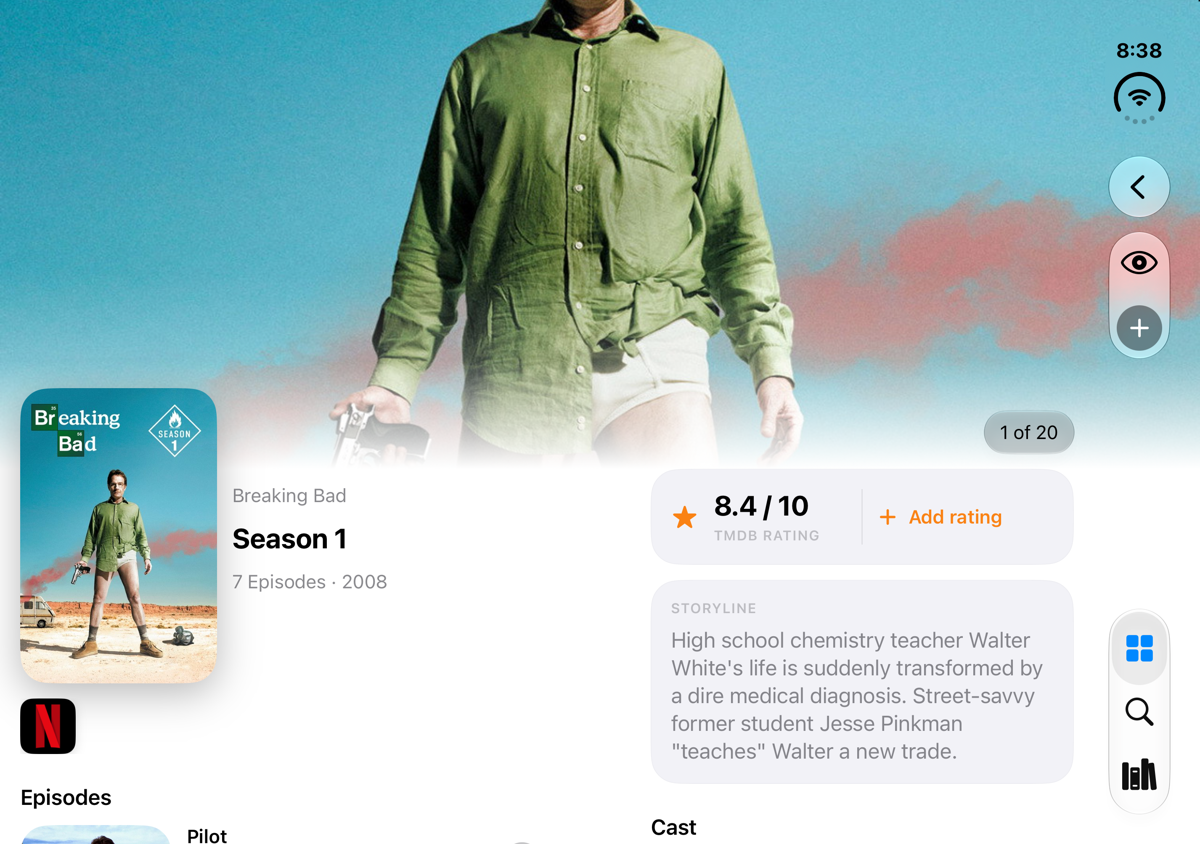
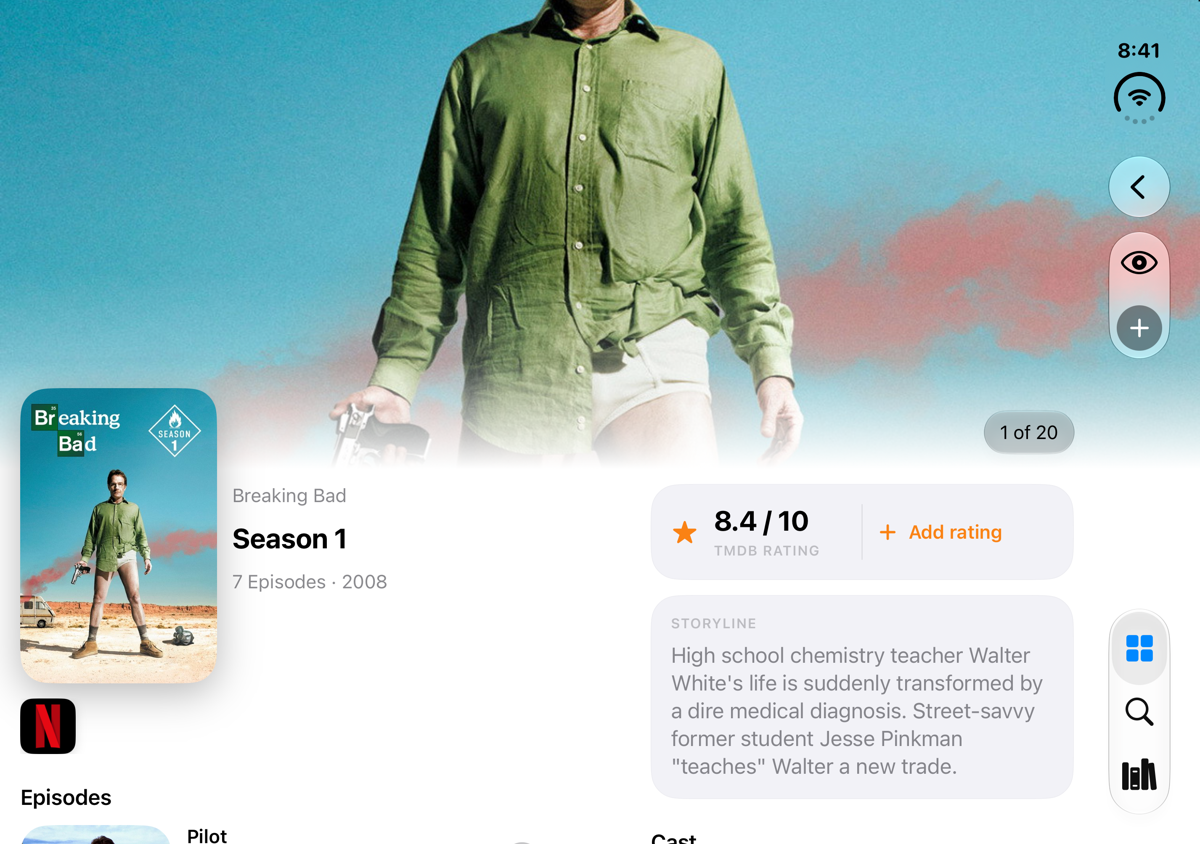
Inset the right pane in hinge mode by the hero's title offset, so its first card lines up with the title on the left.

diff --git a/SilverScreen/Screens/MovieDetail/MovieDetailHero.swift b/SilverScreen/Screens/MovieDetail/MovieDetailHero.swift
@@ -27,6 +27,25 @@ enum DetailHeroPart: Sendable {
     case all
     case backdrop
     case identity
+
+    /// How far below the top of the `.identity` part its title column starts. A hinge
+    /// page pads its trailing pane by this, so that pane's first item lines up with
+    /// the title. `DetailHero` uses the same values to place the title.
+    static func titleTopOffset(posterPath: String?, hasImages: Bool) -> CGFloat {
+        if DetailHeroLayout.hasPoster(posterPath) {
+            return (hasImages ? DesignSpacing.sm : 0) + DesignSpacing.xs
+        }
+        return hasImages ? DesignSpacing.md : 0
+    }
+}
+
+/// Rules shared by `DetailHero` and `DetailHeroPart`.
+enum DetailHeroLayout {
+    /// A blank or whitespace path means there is no poster.
+    static func hasPoster(_ posterPath: String?) -> Bool {
+        guard let posterPath else { return false }
+        return !posterPath.trimmingCharacters(in: .whitespacesAndNewlines).isEmpty
+    }
 }
 
 /// Full-width backdrop stage. A poster overlaps the bottom when `posterPath` is set.
@@ -280,8 +299,7 @@ struct DetailHero<Metadata: View>: View {
     }
 
     private var hasPoster: Bool {
-        guard let posterPath else { return false }
-        return !posterPath.trimmingCharacters(in: .whitespacesAndNewlines).isEmpty
+        DetailHeroLayout.hasPoster(posterPath)
     }
 
     private func reconcileSelection() {

diff --git a/SilverScreen/Design/DetailColumns.swift b/SilverScreen/Design/DetailColumns.swift
@@ -21,6 +21,9 @@ struct DetailColumns<Primary: View, Secondary: View>: View {
     var spacing: CGFloat = DesignSpacing.xl
     /// Between the sections inside each group.
     var itemSpacing: CGFloat = DesignSpacing.xl
+    /// Space above the side column's first section, so it can line up with something
+    /// in the main column (the title, on a hinge page). Ignored when the columns stack.
+    var secondaryTopInset: CGFloat = 0
     @ViewBuilder let primary: Primary
     @ViewBuilder let secondary: Secondary
 
@@ -46,6 +49,7 @@ struct DetailColumns<Primary: View, Secondary: View>: View {
                 VStack(alignment: .leading, spacing: itemSpacing) {
                     secondary
                 }
+                .padding(.top, isSideBySide ? secondaryTopInset : 0)
                 .frame(maxWidth: .infinity, alignment: .leading)
             }
         }

diff --git a/SilverScreenTests/Screens/AdaptiveLayoutTests.swift b/SilverScreenTests/Screens/AdaptiveLayoutTests.swift
@@ -243,6 +243,20 @@ final class AdaptiveLayoutTests: XCTestCase {
         XCTAssertEqual(panes.trailing, [3, 4, 7])
     }
 
+    // MARK: - Hinge page title alignment
+
+    func test_titleTopOffset_posterOverBackdrop_matchesTitleInset() {
+        XCTAssertEqual(DetailHeroPart.titleTopOffset(posterPath: "/p.jpg", hasImages: true), 12)
+    }
+
+    func test_titleTopOffset_noPosterWithBackdrop_matchesTitleInset() {
+        XCTAssertEqual(DetailHeroPart.titleTopOffset(posterPath: nil, hasImages: true), 12)
+    }
+
+    func test_titleTopOffset_blankPosterPath_countsAsNoPoster() {
+        XCTAssertEqual(DetailHeroPart.titleTopOffset(posterPath: "  ", hasImages: false), 0)
+    }
+
     // MARK: - Grid rows
 
     func test_rows_oneColumn_yieldsOneRowPerItem() {

diff --git a/SilverScreen/Screens/TV/TVSeriesView.swift b/SilverScreen/Screens/TV/TVSeriesView.swift
@@ -254,7 +254,13 @@ struct TVSeriesView: View {
             twoColumns: twoColumns,
             contentWidth: contentWidth,
             showsSecondary: sectionsInPanes || !viewModel.awardRows.isEmpty,
-            itemSpacing: DesignSpacing.md
+            itemSpacing: DesignSpacing.md,
+            secondaryTopInset: sectionsInPanes
+                ? DetailHeroPart.titleTopOffset(
+                    posterPath: content.detail.posterPath,
+                    hasImages: !content.detail.images.isEmpty
+                )
+                : 0
         ) {
             if sectionsInPanes {
                 seriesHero(content, twoColumns: true, part: .identity)

diff --git a/SilverScreen/Screens/TV/TVSeasonView.swift b/SilverScreen/Screens/TV/TVSeasonView.swift
@@ -375,7 +375,10 @@ struct TVSeasonView: View {
             twoColumns: twoColumns,
             contentWidth: contentWidth,
             showsSecondary: sectionsInPanes || !viewModel.awardRows.isEmpty,
-            itemSpacing: sectionsInPanes ? DesignSpacing.xl : DesignSpacing.md
+            itemSpacing: sectionsInPanes ? DesignSpacing.xl : DesignSpacing.md,
+            secondaryTopInset: sectionsInPanes
+                ? DetailHeroPart.titleTopOffset(posterPath: content.posterPath, hasImages: !content.images.isEmpty)
+                : 0
         ) {
             if sectionsInPanes {
                 seasonHero(content, twoColumns: true, part: .identity)

diff --git a/SilverScreen/Screens/MovieDetail/MovieDetailView.swift b/SilverScreen/Screens/MovieDetail/MovieDetailView.swift
@@ -249,7 +249,14 @@ struct MovieDetailView: View {
         scrollTo: @escaping (String) -> Void,
         contentWidth: CGFloat
     ) -> some View {
-        DetailColumns(twoColumns: true, contentWidth: contentWidth) {
+        DetailColumns(
+            twoColumns: true,
+            contentWidth: contentWidth,
+            secondaryTopInset: DetailHeroPart.titleTopOffset(
+                posterPath: content.detail.posterPath,
+                hasImages: content.images?.items.isEmpty == false
+            )
+        ) {
             hero(content, twoColumns: true, part: .identity)
                 .inPane()
             factsCard(content)

diff --git a/SilverScreen/Screens/TV/TVEpisodeView.swift b/SilverScreen/Screens/TV/TVEpisodeView.swift
@@ -276,7 +276,10 @@ struct TVEpisodeView: View {
             twoColumns: twoColumns,
             contentWidth: contentWidth,
             showsSecondary: sectionsInPanes || !viewModel.awardRows.isEmpty,
-            itemSpacing: DesignSpacing.md
+            itemSpacing: DesignSpacing.md,
+            secondaryTopInset: sectionsInPanes
+                ? DetailHeroPart.titleTopOffset(posterPath: nil, hasImages: !content.heroImages.isEmpty)
+                : 0
         ) {
             if sectionsInPanes {
                 episodeHero(content, images: content.heroImages, twoColumns: true, part: .identity)
